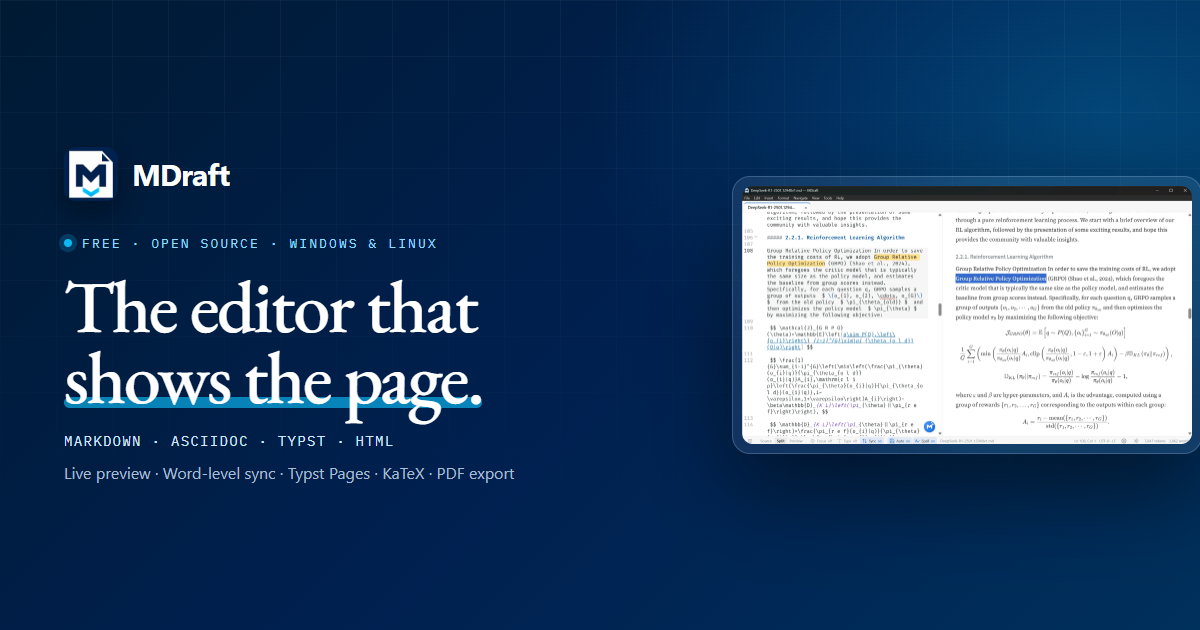
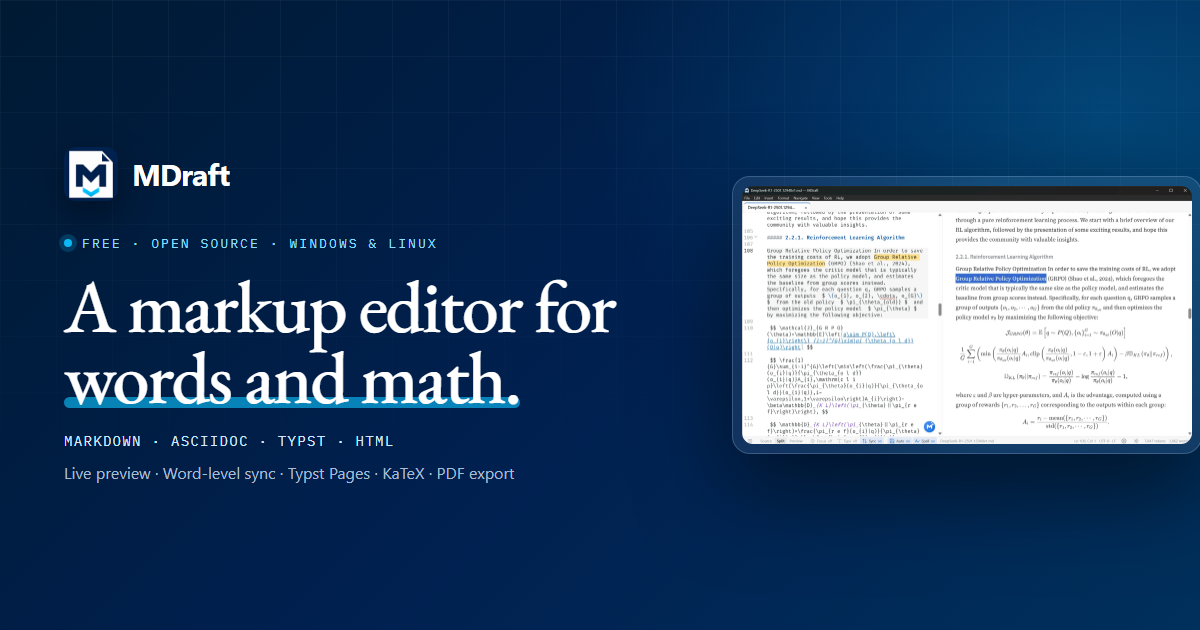
fix(site): refresh social preview image

Changed region(s): [[0.0617, 0.4524, 0.5242, 0.6937]]

diff --git a/docs/og-source.html b/docs/og-source.html
@@ -183,7 +183,7 @@
         MDraft
       </div>
       <p class="eyebrow">Free · Open source · Windows &amp; Linux</p>
-      <h1>The editor that <span>shows the page.</span></h1>
+      <h1>A markup editor for <span>words and math.</span></h1>
       <p class="languages">Markdown · AsciiDoc · Typst · HTML</p>
       <p class="features">Live preview · Word-level sync · Typst Pages · KaTeX · PDF export</p>
     </div>
